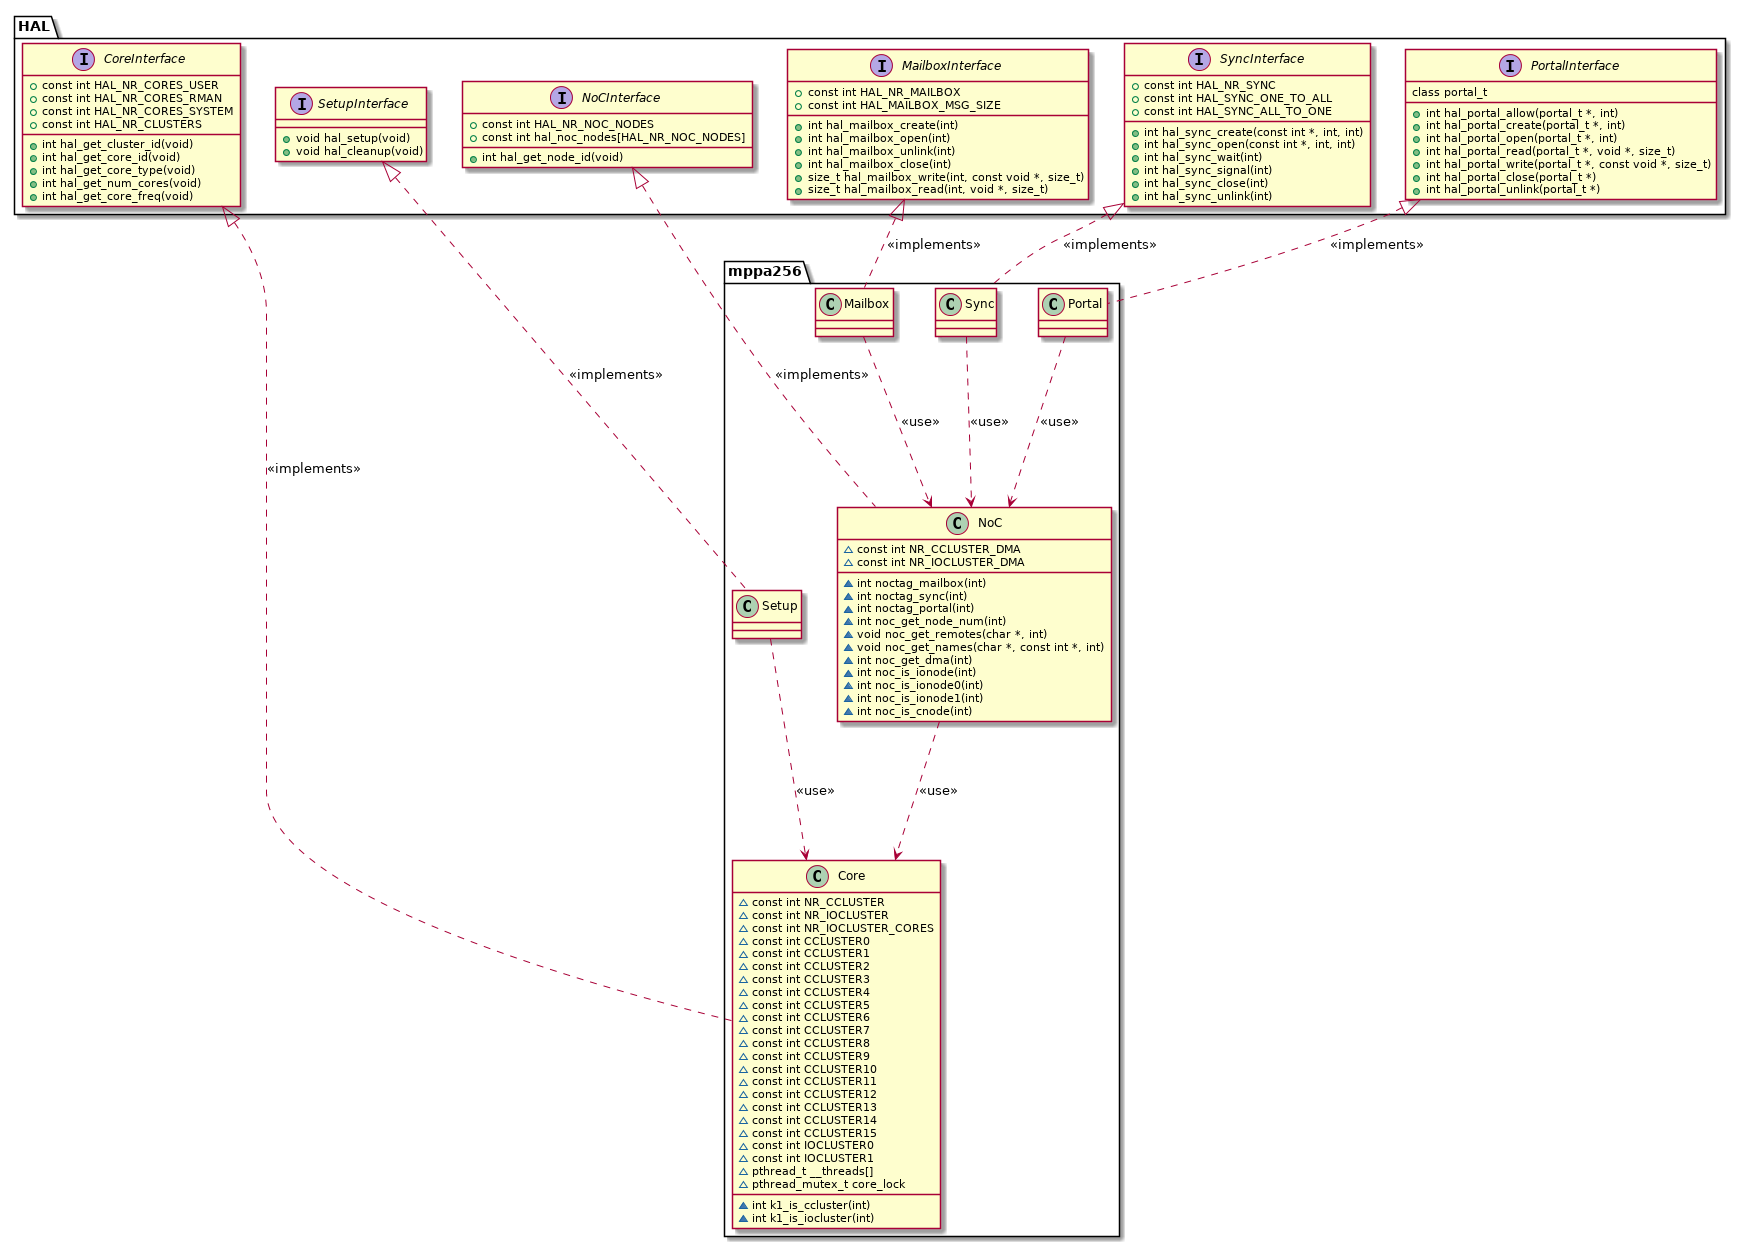
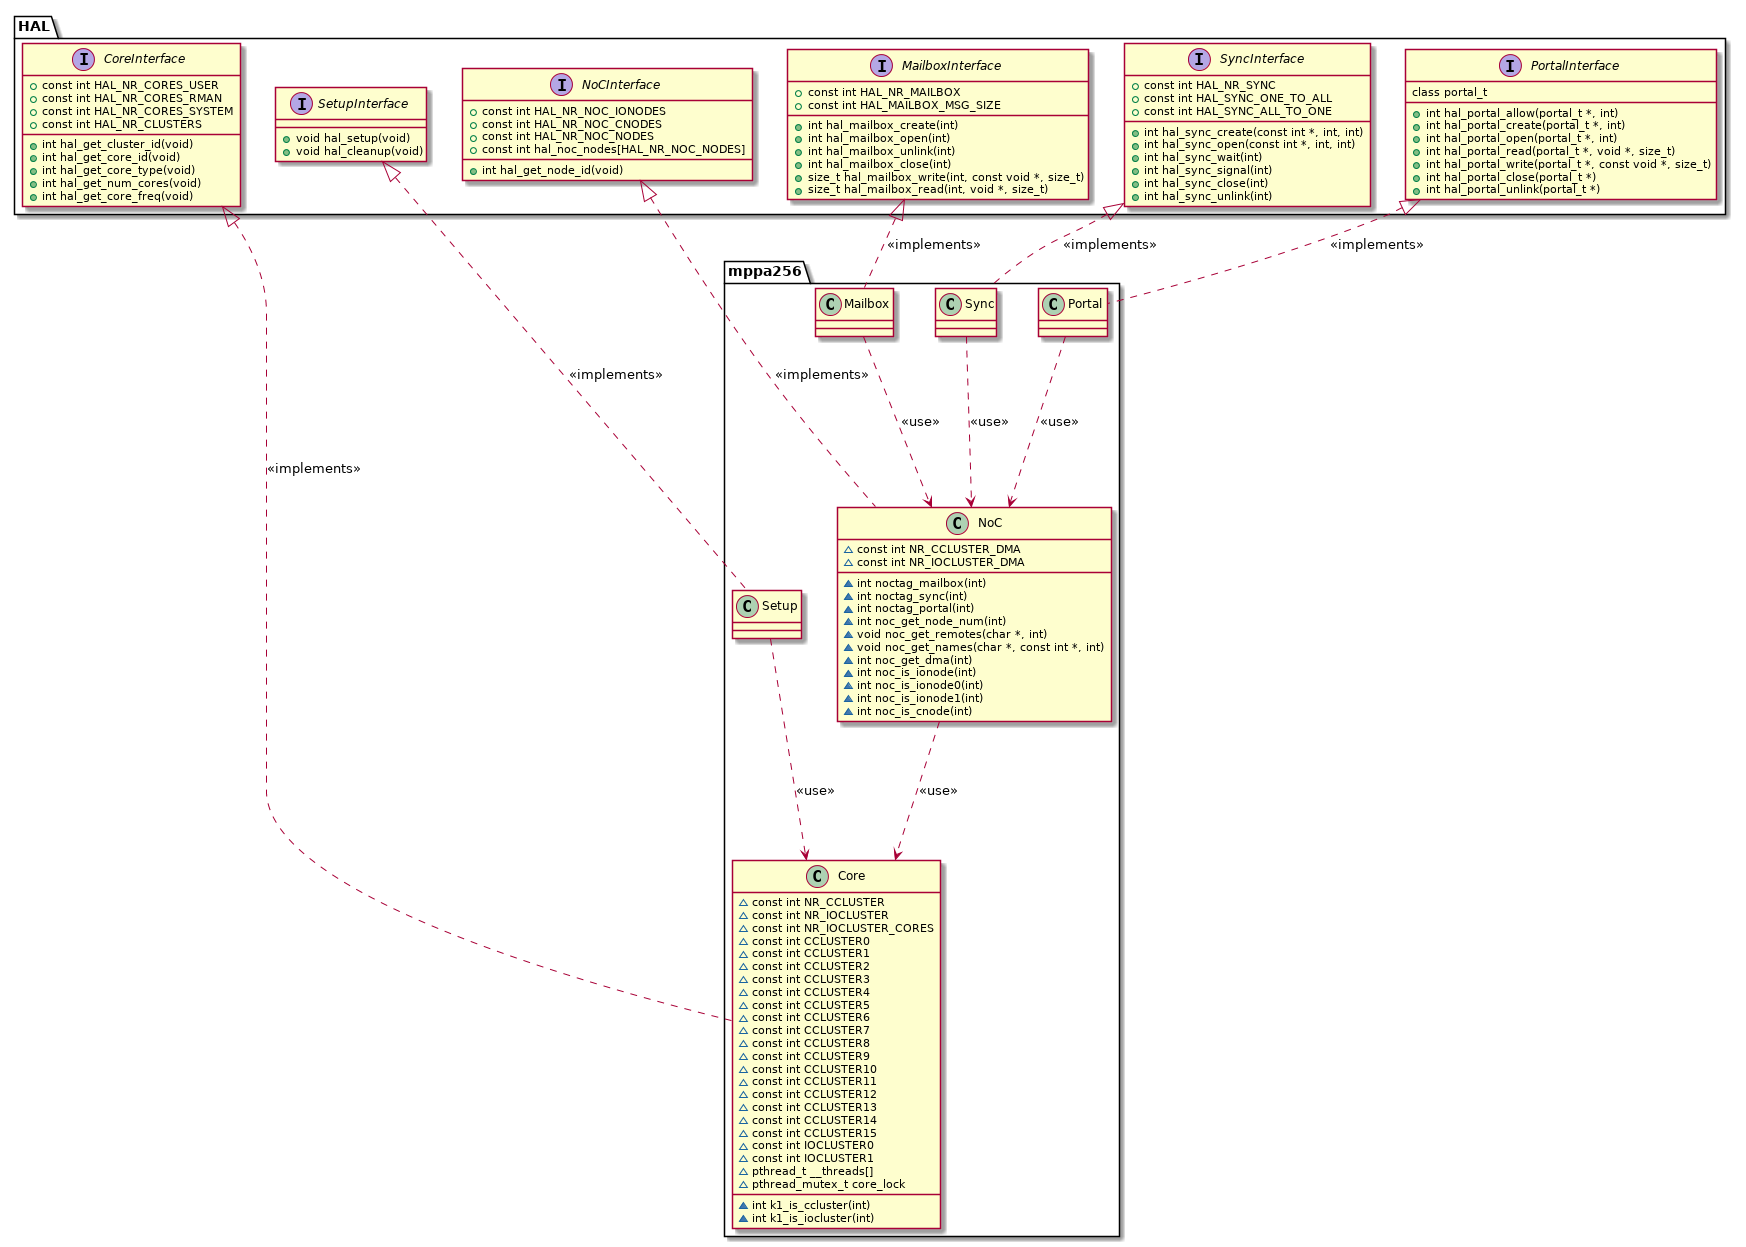
Adding IONODES and CNODES to HAL

Changed region(s): [[0.2474, 0.0305, 0.433, 0.1524]]

diff --git a/include/nanvix/arch/mppa.h b/include/nanvix/arch/mppa.h
@@ -62,9 +62,19 @@
 #ifdef __NEED_HAL_NOC_
 
 	/**
+	 * @brief Number of NoC nodes attached to an IO device.
+	 */
+	#define HAL_NR_NOC_IONODES 8
+
+	/**
+	 * @define Number of NoC nodes not attached to an IO device.
+	 */
+	#define HAL_NR_NOC_CNODES 16
+
+	/**
 	 * @brief Number of NoC nodes.
 	 */
-	#define HAL_NR_NOC_NODES 24
+	#define HAL_NR_NOC_NODES (HAL_NR_NOC_IONODES + HAL_NR_NOC_CNODES)
 
 #endif /* __NEED_HAL_NOC_ */
 
